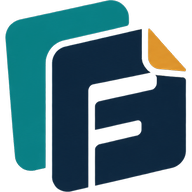
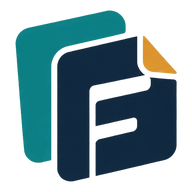
step 78: sharper brand files, and two things that undercut trust
Asked to swap in a better logo and make the interface look trustworthy. The
logo turned out to be the easy half and not the real problem.

The supplied artwork is the SAME logo already in the app - 94% of pixels
within 16/255 of the existing lockup, the difference being edge antialiasing.
What it did bring was resolution: a 2172x724 source instead of whatever the
originals were rendered from. All four brand files are regenerated from it and
are genuinely crisper on a high-DPI screen, which is worth having, but nobody
would call it a rebrand.

Trimmed on an alpha threshold rather than getbbox, which keeps pixels with
alpha as low as 1 and left about 80px of invisible haze on each side - the
same wide transparent margin CLAUDE.md already warns about on the previous
artwork. The mark is cropped at the gutter between icon and wordmark, measured
ON THE TRIMMED image: measuring it on the raw one and cropping the trimmed one
sliced 29px of the F off the wordmark into the favicon, which is what the
first attempt did.

The two real problems were found by screenshotting the live site.

The sign-up box sat ABOVE the first card, so a reader who opened a feed met an
email capture before a single story - the pattern people are trained to
distrust, on an app about not being manipulated. It now follows the third
card. A feed shorter than that gets one at the end, and a single-card
permalink gets none, because there is no feed there to earn it.
[…]

Changed region(s): [[0.0, 0.0, 0.9688, 1.0], [0.5, 0.5, 0.625, 0.5312]]

diff --git a/src/components/Feed.tsx b/src/components/Feed.tsx
@@ -1,3 +1,4 @@
+import { Fragment } from "react";
 import { useQuery } from "convex/react";
 import { api } from "../../convex/_generated/api";
 import { readerId } from "../reader";
@@ -55,12 +56,24 @@ export default function Feed({ kind = "scam", storyId }: { kind?: string; storyI
     );
   }
 
+  // The sign-up box used to sit ABOVE the first card, so a reader who came to
+  // read a feed met an email capture before a single story. That is the
+  // pattern people have been trained to distrust, and on an app about not
+  // being manipulated it was the wrong first impression. It now appears after
+  // the third card, once the feed has shown what it is actually offering, and
+  // it is skipped entirely on a single-card permalink where there is no feed
+  // to earn it.
+  const AFTER = 3;
   return (
     <div className="flex flex-col gap-5">
-      <Subscribe userId={userId} kind={kind} />
-      {stories.map((story) => (
-        <Post key={story._id} story={story} userId={userId} />
+      {stories.map((story, index) => (
+        <Fragment key={story._id}>
+          <Post story={story} userId={userId} />
+          {!storyId && index === AFTER - 1 && <Subscribe userId={userId} kind={kind} />}
+        </Fragment>
       ))}
+      {/* A feed shorter than the cut-off still gets one, at the end. */}
+      {!storyId && stories.length < AFTER && <Subscribe userId={userId} kind={kind} />}
       {!storyId && <p className="pt-2 text-center text-base text-slate">
         That is everything in this feed. A card only gets here if it passes
         every gate, so the feeds stay short on purpose.

diff --git a/src/components/Home.tsx b/src/components/Home.tsx
@@ -80,19 +80,11 @@ export default function Home({
       {/* Hero                                                                */}
       {/* ------------------------------------------------------------------ */}
       <section className="pt-10 sm:pt-14">
-        {/* Here the logo is content rather than chrome: it is how the page
-            states the product's name, so it carries a real alt rather than an
-            empty one. */}
-        <img
-          src="/brand/flipsec-ai-logo.png"
-          srcSet="/brand/flipsec-ai-logo.png 1x, /brand/flipsec-ai-logo@2x.png 2x"
-          width={208}
-          height={52}
-          alt="FlipSec.ai"
-          className="h-11 w-auto object-contain sm:h-13"
-        />
-
-        <h1 className="mt-6 max-w-[20ch] text-3xl leading-tight font-semibold tracking-tight text-navy sm:text-4xl">
+        {/* The lockup used to open this section. It is gone on purpose: the
+            header shows the same artwork a hundred pixels above, so the hero
+            was spending its most valuable space repeating the name instead of
+            saying what the site does. The headline leads now. */}
+        <h1 className="max-w-[22ch] text-3xl leading-tight font-semibold tracking-tight text-navy sm:text-4xl">
           Flip the news. Learn the threat.
         </h1>
         <p className="mt-4 max-w-[68ch] text-lg leading-relaxed text-ink">

diff --git a/CLAUDE.md b/CLAUDE.md
@@ -290,9 +290,14 @@ Firecrawl, AgentMail. **Live:** <https://hallowed-nightingale-322.convex.site>
   never black. Body copy stays around 65-75 characters.
 - The logo lives in `public/brand/`. It is a horizontal lockup that already
   contains the wordmark, so nothing sets "FlipSec.ai" in text beside it. Four
-  files: the lockup at 256x64 with a 512x128 @2x, and the mark alone squared
-  at 96 and 192 for the favicon and for widths under 640px where the full
-  lockup crowds the navigation. Sized by height with `w-auto`, so it cannot be
+  files: the lockup at **height 64 with a height-128 @2x** (257x64 and 513x128
+  from the current artwork — the width follows the drawing, and nothing should
+  force it to a round number), and the mark alone squared at 96 and 192 for
+  the favicon and for widths under 640px where the full lockup crowds the
+  navigation. All four are regenerated from one source PNG; the mark is cropped
+  at the transparent gutter between the icon and the wordmark, which has to be
+  measured **on the trimmed image** rather than on the raw one, because the two
+  have different origins. Sized by height with `w-auto`, so it cannot be
   stretched, and never recoloured or set on a busy ground. The supplied
   artwork is trimmed to its content box before shipping; the raw file carries
   a wide transparent margin that would otherwise read as broken padding.
@@ -326,6 +331,16 @@ Firecrawl, AgentMail. **Live:** <https://hallowed-nightingale-322.convex.site>
 
 ## UI
 
+- **The sign-up box comes AFTER the third card, never before the first.** A
+  reader who opened a feed used to meet an email capture before a single
+  story. That is the pattern people have been trained to distrust, and on an
+  app about not being manipulated it was the wrong first impression. A feed
+  shorter than three cards gets one at the end; a single-card permalink gets
+  none, because there is no feed there to earn it.
+- **The hero does not repeat the logo.** The header shows the lockup already;
+  a hero that opens with the same artwork spends its best space saying the
+  name twice and delays the sentence that explains what the site is. The
+  headline leads.
 - The interface is intentionally calm. The homepage has two hero actions,
   three unboxed feed pathways, a three-step explanation and one latest-story
   card. Do not restore the duplicate technology card grid or add ornamental
